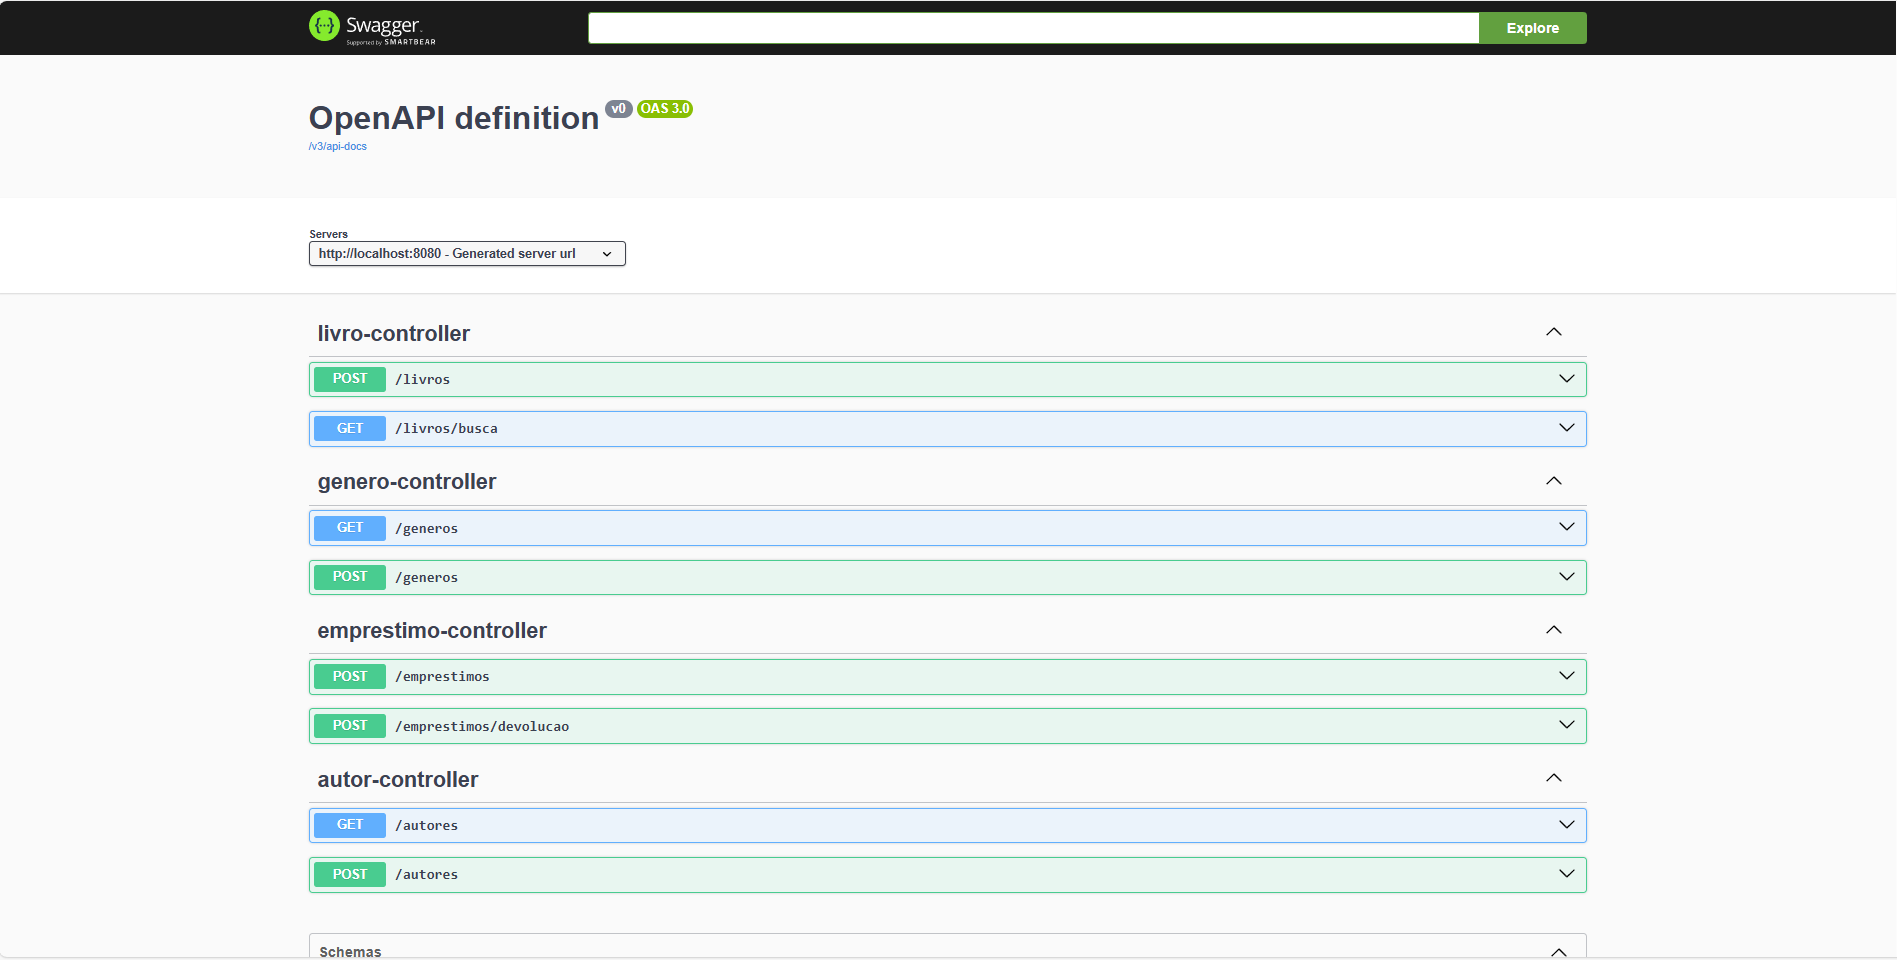
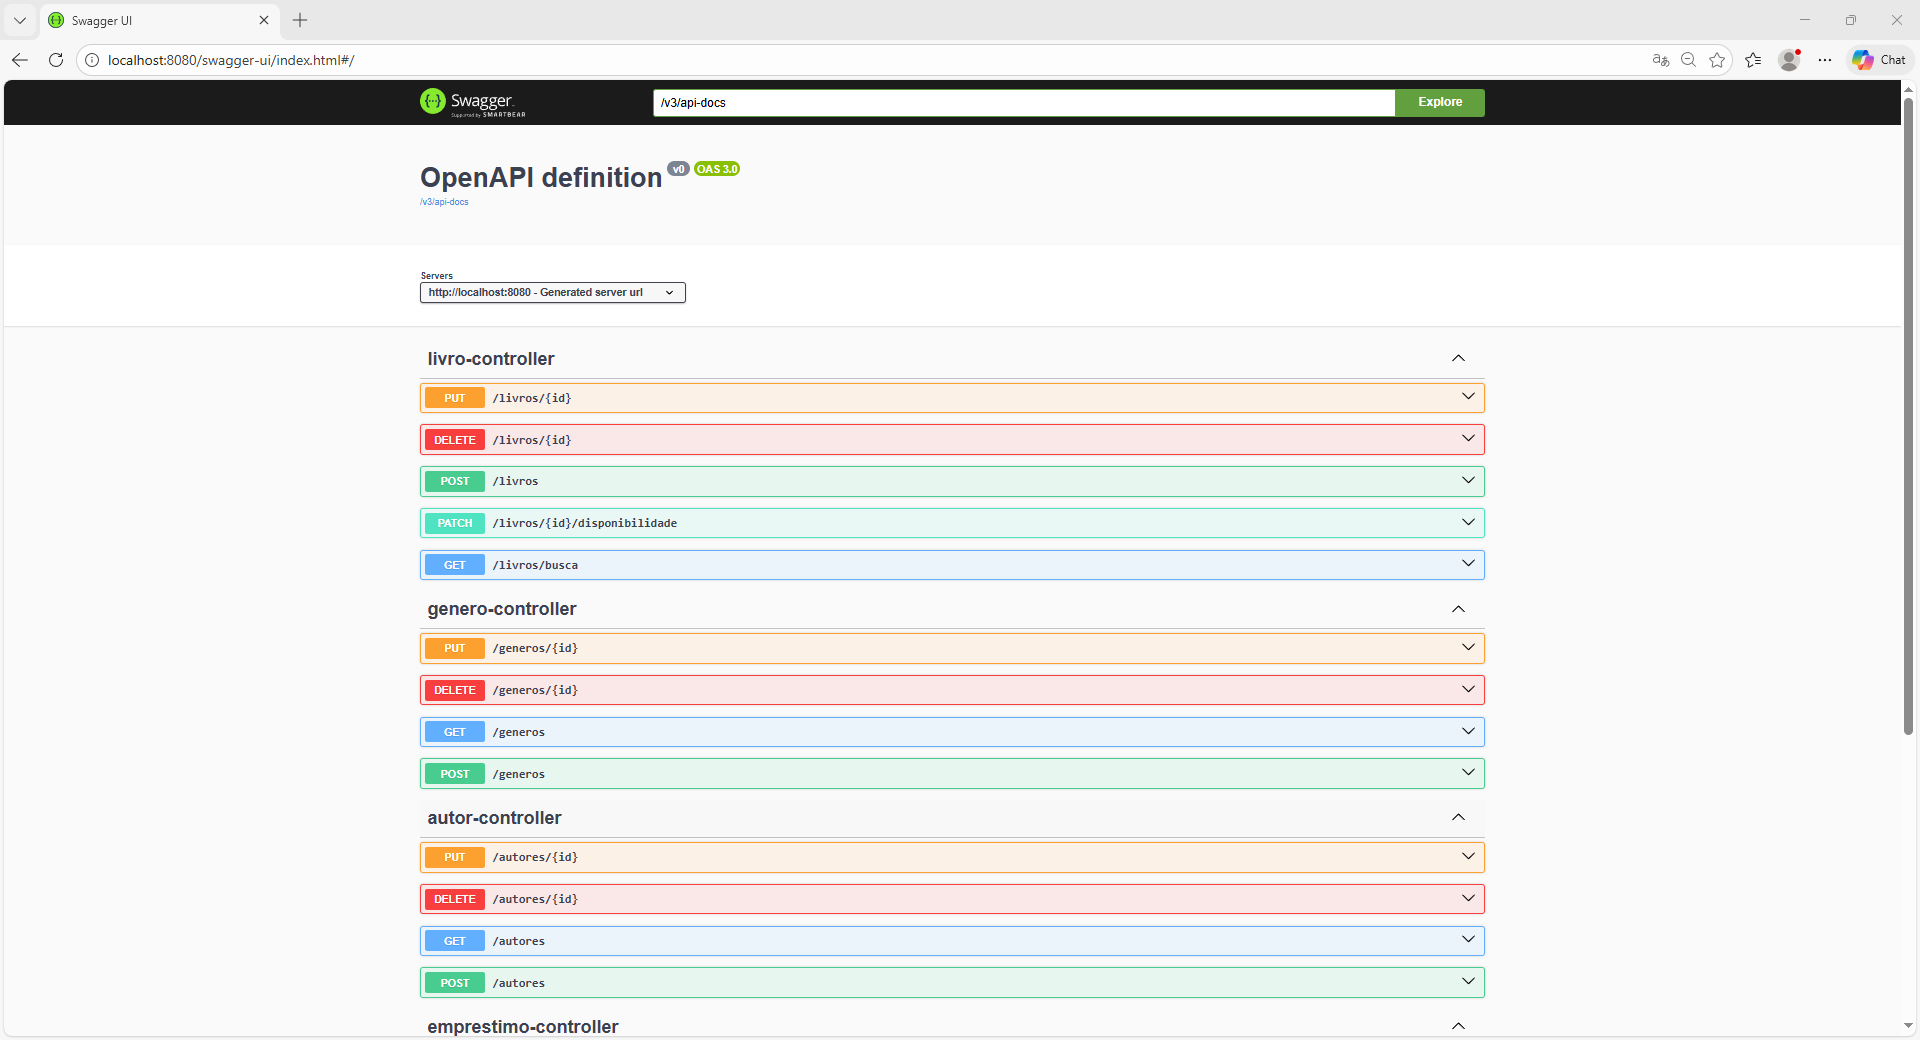
fix:ajuste dos endPoints e correções

Changed region(s): [[0.1555, 0.2188, 0.7775, 1.0], [0.0, 0.0, 1.0, 0.7188]]

diff --git a/src/main/java/com/ViniGBPl/biblioteca/domain/service/LivroService.java b/src/main/java/com/ViniGBPl/biblioteca/domain/service/LivroService.java
@@ -20,16 +20,16 @@ public class LivroService {
     private final LivroRepository livroRepository;
     private final AutorService autorService;
     private final LivroSearchRepository livroSearchRepository;
-    private final GeneroRepository generoRepository; // 1. VOCÊ PRECISA INJETAR O REPOSITÓRIO AQUI
+    private final GeneroRepository generoRepository; // INJETAR O REPOSITÓRIO
 
     @Transactional
     public Livro salvar(Livro livro) {
-        // 2. Validar Autor
+        //  Validar Autor
         Long autorId = livro.getAutor().getId();
         Autor autor = autorService.buscarOurFalhar(autorId);
         livro.setAutor(autor);
 
-        // 3. Carregar Gêneros completos (usando a instância injetada 'generoRepository')
+        // Carregar Gêneros completos (usando a instância injetada 'generoRepository')
         if (livro.getGeneros() != null) {
             List<Genero> generosCompletos = livro.getGeneros().stream()
                     .map(g -> generoRepository.findById(g.getId())
@@ -38,15 +38,15 @@ public class LivroService {
             livro.setGeneros(generosCompletos);
         }
 
-        // 4. Garantir que o livro comece como disponível se for novo
+        // Garantir que o livro comece como disponível se for novo
         if (livro.getId() == null) {
             livro.setDisponivel(true);
         }
 
-        // 5. Salvar no Postgres
+        //Salvar no Postgres
         Livro livroSalvo = livroRepository.save(livro);
 
-        // 6. Sincronizar com Elasticsearch (Desnormalização)
+        //  Sincronizar com Elasticsearch (Desnormalização)
         List<String> nomesGeneros = livroSalvo.getGeneros().stream()
                 .map(Genero::getNome)
                 .toList();
@@ -63,4 +63,60 @@ public class LivroService {
 
         return livroSalvo;
     }
+
+    // atualizar livro
+    @Transactional
+    public Livro atualizar(Long livroId, Livro livroAtualizado) {
+        Livro livroExistente = livroRepository.findById(livroId)
+                .orElseThrow(() -> new RuntimeException("Livro não encontrado"));
+
+        // Atualiza apenas os campos permitidos
+        livroExistente.setTitulo(livroAtualizado.getTitulo());
+        livroExistente.setIsbn(livroAtualizado.getIsbn());
+        livroExistente.setAnoPublicacao(livroAtualizado.getAnoPublicacao());
+
+        // Se o autor mudou, valida novamente
+        if (!livroExistente.getAutor().getId().equals(livroAtualizado.getAutor().getId())) {
+            livroExistente.setAutor(autorService.buscarOurFalhar(livroAtualizado.getAutor().getId()));
+        }
+
+        Livro livroSalvo = livroRepository.save(livroExistente);
+
+        // Sincroniza a atualização no Elasticsearch
+        syncElasticsearch(livroSalvo);
+
+        return livroSalvo;
+    }
+    // Deletar livro
+    @Transactional
+    public void excluir(Long livroId) {
+        if (!livroRepository.existsById(livroId)) {
+            throw new RuntimeException("Livro não encontrado");
+        }
+
+        // Remove do Postgres
+        livroRepository.deleteById(livroId);
+
+        // Remove do Elasticsearch
+        livroSearchRepository.deleteById(livroId.toString());
+    }
+
+    // Método auxiliar para evitar duplicação de código na sincronização
+    private void syncElasticsearch(Livro livro) {
+        List<String> nomesGeneros = livro.getGeneros().stream()
+                .map(Genero::getNome)
+                .toList();
+
+        LivroDocument document = LivroDocument.builder()
+                .id(livro.getId().toString())
+                .titulo(livro.getTitulo())
+                .autorNome(livro.getAutor().getNome())
+                .isbn(livro.getIsbn())
+                .nomesGeneros(nomesGeneros)
+                .build();
+
+        livroSearchRepository.save(document);
+    }
+
+
 }

diff --git a/src/main/java/com/ViniGBPl/biblioteca/domain/service/GeneroService.java b/src/main/java/com/ViniGBPl/biblioteca/domain/service/GeneroService.java
@@ -1,0 +1,52 @@
+package com.ViniGBPl.biblioteca.domain.service;
+
+import com.ViniGBPl.biblioteca.domain.model.Genero;
+import com.ViniGBPl.biblioteca.domain.repository.GeneroRepository;
+// Altere para o import do Spring para manter padrão com LivroService
+import org.springframework.transaction.annotation.Transactional;
+import lombok.RequiredArgsConstructor;
+import org.springframework.stereotype.Service;
+
+import java.util.List;
+
+@Service
+@RequiredArgsConstructor
+public class GeneroService {
+
+    private final GeneroRepository generoRepository;
+
+    // Método que faltava para o GET /generos
+    public List<Genero> listar() {
+        return generoRepository.findAll();
+    }
+
+    // Método que faltava para o POST /generos
+    @Transactional
+    public Genero salvar(Genero genero) {
+        return generoRepository.save(genero);
+    }
+
+    public Genero buscarOuFalhar(Long id) {
+        return generoRepository.findById(id)
+                .orElseThrow(() -> new RuntimeException("Gênero não encontrado"));
+    }
+
+    @Transactional
+    public Genero atualizar(Long id, Genero generoAtualizado) {
+        Genero generoExistente = buscarOuFalhar(id);
+        generoExistente.setNome(generoAtualizado.getNome());
+        return generoRepository.save(generoExistente);
+    }
+
+    @Transactional
+    public void excluir(Long id) {
+        Genero genero = buscarOuFalhar(id);
+
+        //  Valida se existem livros vinculados
+        if (genero.getLivros() != null && !genero.getLivros().isEmpty()) {
+            throw new RuntimeException("Gênero em uso por livros. Não pode ser excluído.");
+        }
+
+        generoRepository.delete(genero);
+    }
+}

diff --git a/src/main/java/com/ViniGBPl/biblioteca/api/controller/GeneroController.java b/src/main/java/com/ViniGBPl/biblioteca/api/controller/GeneroController.java
@@ -1,7 +1,7 @@
 package com.ViniGBPl.biblioteca.api.controller;
 
 import com.ViniGBPl.biblioteca.domain.model.Genero;
-import com.ViniGBPl.biblioteca.domain.repository.GeneroRepository;
+import com.ViniGBPl.biblioteca.domain.service.GeneroService; // 1. Importe o novo serviço
 import lombok.RequiredArgsConstructor;
 import org.springframework.http.HttpStatus;
 import org.springframework.web.bind.annotation.*;
@@ -13,16 +13,31 @@ import java.util.List;
 @RequiredArgsConstructor
 public class GeneroController {
 
-    private final GeneroRepository generoRepository;
+    // Injete o Service em vez do Repository para centralizar as regras de negócio
+    private final GeneroService generoService;
 
     @GetMapping
     public List<Genero> listar() {
-        return generoRepository.findAll();
+        //cria um método listar no Service ou usar o repository se o service o expuser
+        return generoService.listar();
     }
 
     @PostMapping
     @ResponseStatus(HttpStatus.CREATED)
     public Genero adicionar(@RequestBody Genero genero) {
-        return generoRepository.save(genero);
+        return generoService.salvar(genero);
+    }
+
+    @PutMapping("/{id}")
+    public Genero atualizar(@PathVariable Long id, @RequestBody Genero genero) {
+        // Chama a lógica de atualização que valida a existência do registro
+        return generoService.atualizar(id, genero);
+    }
+
+    @DeleteMapping("/{id}")
+    @ResponseStatus(HttpStatus.NO_CONTENT)
+    public void remover(@PathVariable Long id) {
+        // Chama a lógica de exclusão que valida integridade
+        generoService.excluir(id);
     }
 }

diff --git a/src/main/java/com/ViniGBPl/biblioteca/api/controller/LivroController.java b/src/main/java/com/ViniGBPl/biblioteca/api/controller/LivroController.java
@@ -1,6 +1,7 @@
 package com.ViniGBPl.biblioteca.api.controller;
 
 import com.ViniGBPl.biblioteca.domain.model.Livro;
+import com.ViniGBPl.biblioteca.domain.repository.LivroRepository;
 import com.ViniGBPl.biblioteca.domain.service.LivroService;
 import lombok.RequiredArgsConstructor;
 import org.springframework.http.HttpStatus;
@@ -18,6 +19,7 @@ public class LivroController {
 
     private final LivroSearchRepository livroSearchRepository;
     private final LivroService livroService;
+    private final LivroRepository livroRepository; //testar
 
     @PostMapping
     @ResponseStatus(HttpStatus.CREATED)
@@ -39,5 +41,24 @@ public class LivroController {
         }
 
         return List.of();
+    }
+
+
+    @PutMapping("/{id}")
+    public Livro atualizar(@PathVariable Long id, @RequestBody Livro livro) {
+        return livroService.atualizar(id, livro);
+    }
+
+    @DeleteMapping("/{id}")
+    @ResponseStatus(HttpStatus.NO_CONTENT)
+    public void remover(@PathVariable Long id) {
+        livroService.excluir(id);
+    }
+    //testar
+    @PatchMapping("/{id}/disponibilidade")
+    public Livro atualizarDisponibilidade(@PathVariable Long id, @RequestBody Boolean disponivel) {
+        Livro livro = livroRepository.findById(id).orElseThrow();
+        livro.setDisponivel(disponivel);
+        return livroRepository.save(livro);
     }
 }

diff --git a/src/main/java/com/ViniGBPl/biblioteca/domain/service/EmprestimoService.java b/src/main/java/com/ViniGBPl/biblioteca/domain/service/EmprestimoService.java
@@ -55,7 +55,7 @@ public class EmprestimoService {
         Livro livro = livroRepository.findById(livroId)
                 .orElseThrow(() -> new RuntimeException("Livro não encontrado"));
 
-        // 1. Verificar se há alguém na fila para este livro
+        // Verificar se há alguém na fila para este livro
         var fila = filaEsperaRepository.findByLivroIdOrderByDataSolicitacaoAsc(livroId);
 
         if (!fila.isEmpty()) {
@@ -77,7 +77,7 @@ public class EmprestimoService {
             return "Livro devolvido e automaticamente emprestado para " + proximoDaFila.getNomeUsuario() + " (fila de espera).";
         }
 
-        // 2. Se não houver fila, o livro volta a ficar disponível
+        // Se não houver fila, o livro volta a ficar disponível
         livro.setDisponivel(true);
         livroRepository.save(livro);
 

diff --git a/src/main/java/com/ViniGBPl/biblioteca/domain/service/AutorService.java b/src/main/java/com/ViniGBPl/biblioteca/domain/service/AutorService.java
@@ -27,4 +27,23 @@ public class AutorService {
 
 
     }
+
+    @Transactional
+    public Autor atualizar(Long id, Autor autorAtualizado) {
+        Autor autorExistente = buscarOurFalhar(id);
+        autorExistente.setNome(autorAtualizado.getNome());
+        autorExistente.setNacionalidade(autorAtualizado.getNacionalidade());
+        return autorRepository.save(autorExistente);
+    }
+
+    @Transactional
+    public void excluir(Long id) {
+        Autor autor = buscarOurFalhar(id);
+        // Não deletar autor que possui livros
+        if (autor.getLivros() != null && !autor.getLivros().isEmpty()) {
+            throw new RuntimeException("Não é possível excluir um autor que possui livros cadastrados.");
+        }
+        autorRepository.delete(autor);
+    }
+
 }

diff --git a/src/main/java/com/ViniGBPl/biblioteca/api/controller/AutorController.java b/src/main/java/com/ViniGBPl/biblioteca/api/controller/AutorController.java
@@ -27,4 +27,15 @@ public class AutorController {
         return autorService.save(autor);
     }
 
+    @PutMapping("/{id}")
+    public Autor atualizar(@PathVariable Long id, @RequestBody Autor autor) {
+        return autorService.atualizar(id, autor);
+    }
+
+    @DeleteMapping("/{id}")
+    @ResponseStatus(HttpStatus.NO_CONTENT)
+    public void remover(@PathVariable Long id) {
+        autorService.excluir(id);
+    }
+
 }

diff --git a/src/main/java/com/ViniGBPl/biblioteca/domain/repository/AutorRepository.java b/src/main/java/com/ViniGBPl/biblioteca/domain/repository/AutorRepository.java
@@ -7,5 +7,5 @@ import org.springframework.stereotype.Repository;
 @Repository
 public interface AutorRepository extends JpaRepository<Autor, Long> {
 
-    // O JpaRepository já nos dá métodos como save(), findById(), delete()
+    // O JpaRepository nos dá métodos como save(), findById(), delete()
 }
